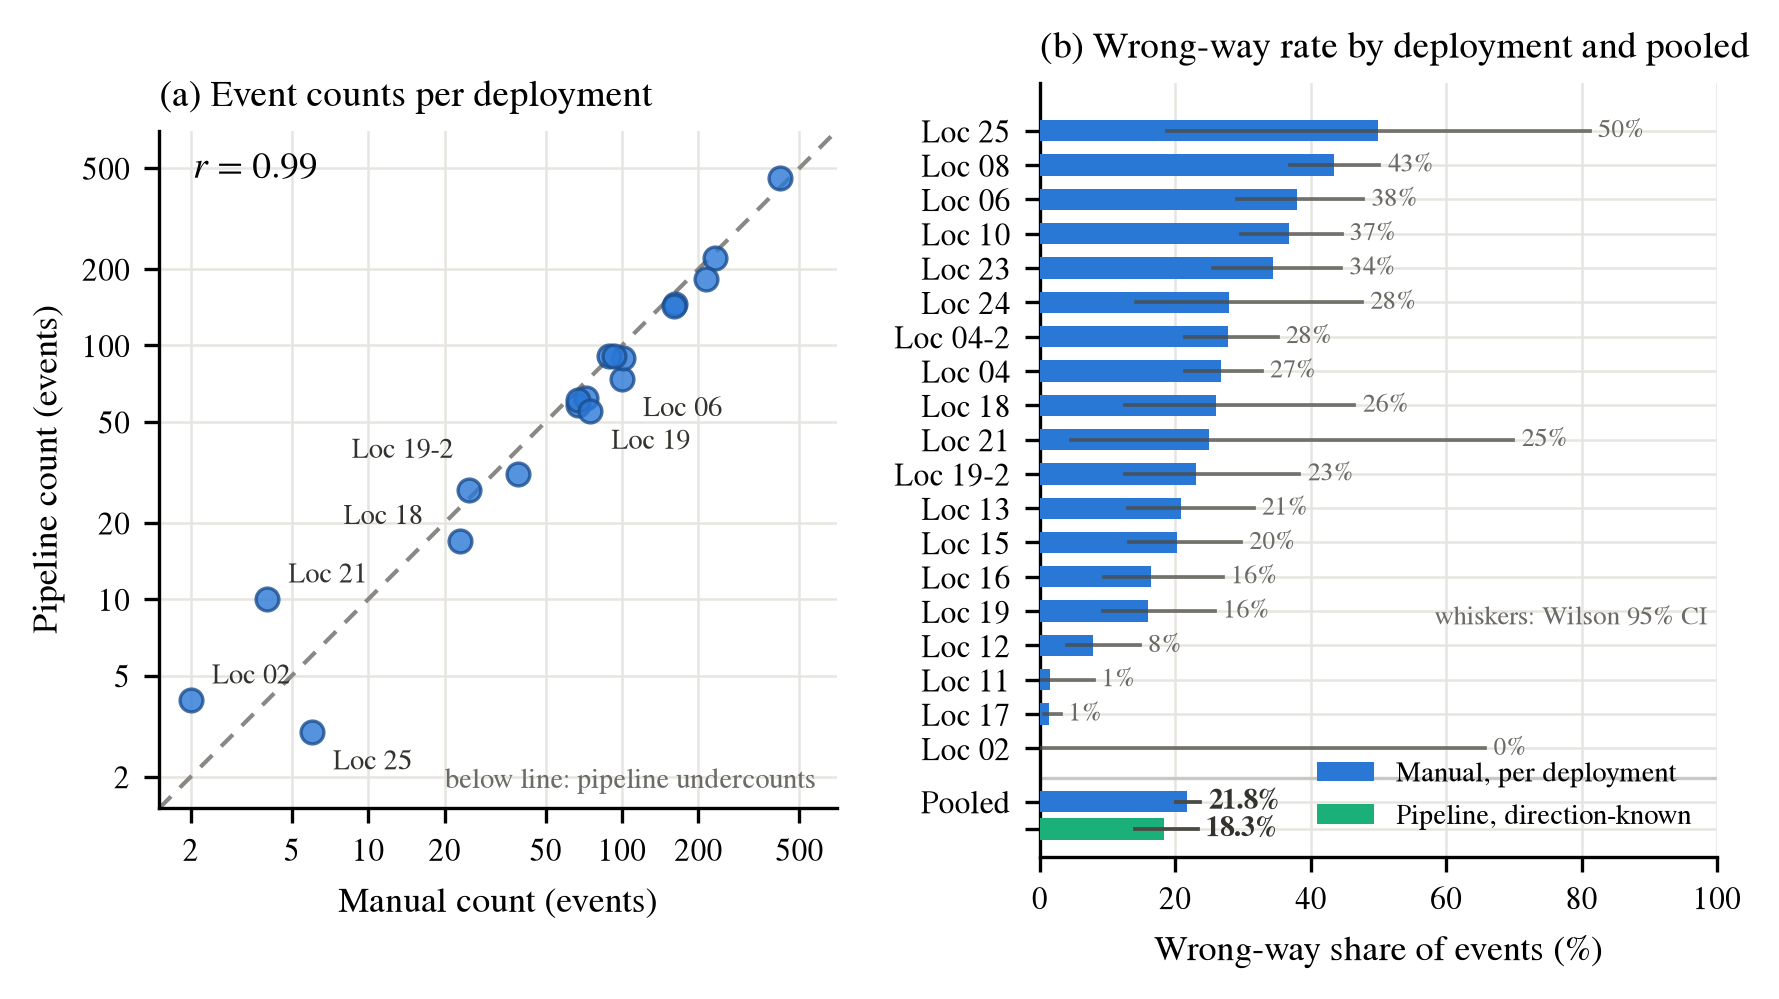
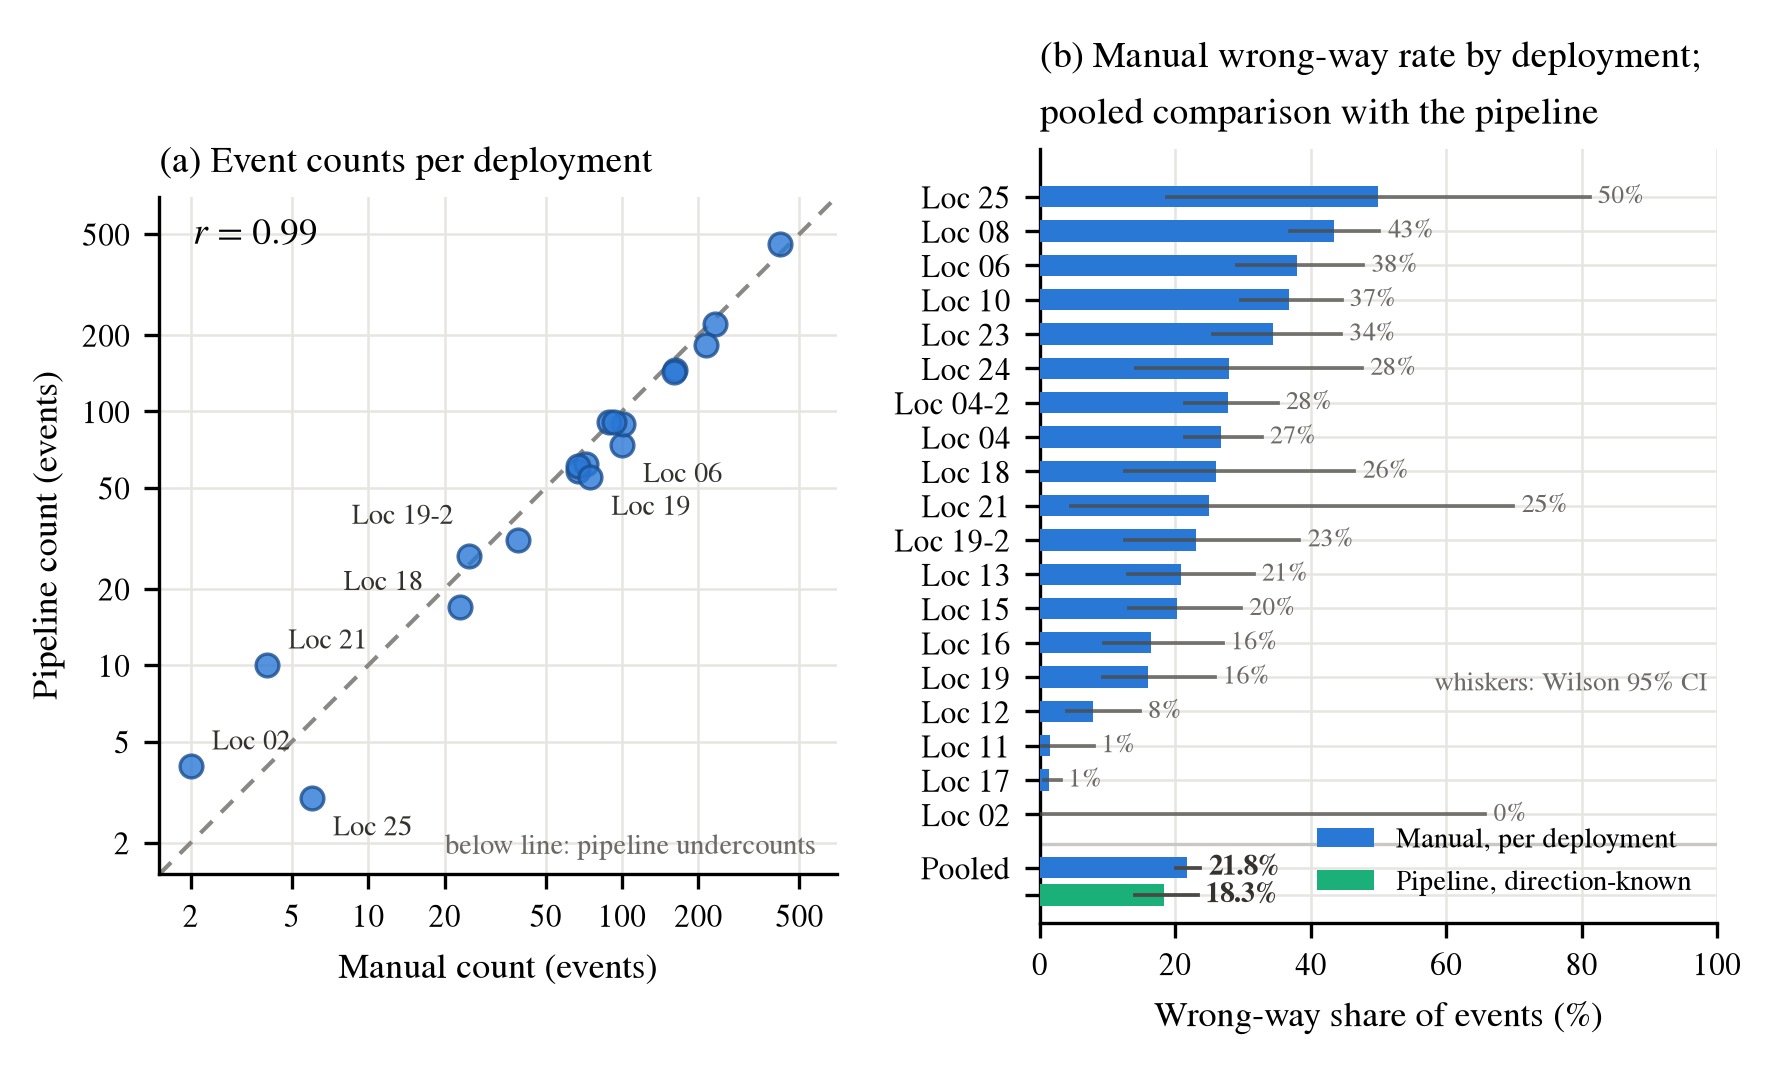
Clarify panel (b) title: manual rates by deployment, pooled pipeline comparison

diff --git a/paper/make_figs_v3.py b/paper/make_figs_v3.py
@@ -141,7 +141,7 @@ def fig_validation(rows, out):
     ax2.legend(fontsize=6.8, frameon=False, loc="lower right")
     ax2.text(0.985, 0.30, "whiskers: Wilson 95% CI",
              transform=ax2.transAxes, fontsize=6.4, color=MUTED, ha="right")
-    ax2.set_title("(b) Wrong-way rate by deployment and pooled",
+    ax2.set_title("(b) Manual wrong-way rate by deployment;\npooled comparison with the pipeline",
                   fontsize=9, loc="left")
 
     for ax in (ax1, ax2):
